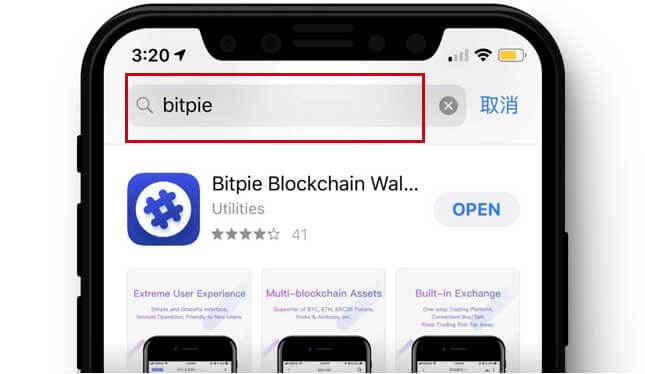
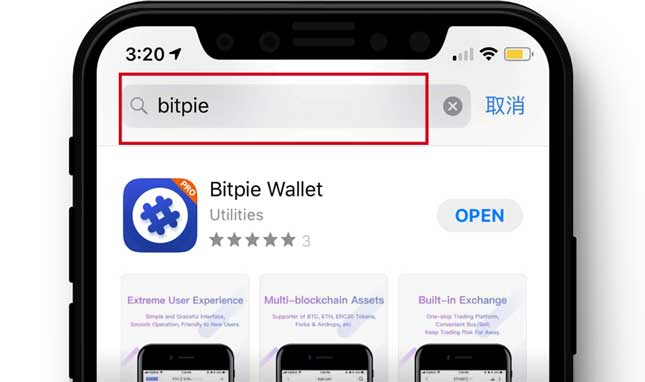
modify ios download pic 4

diff --git a/_includes/down_content.html b/_includes/down_content.html
@@ -16,24 +16,25 @@
     </p>
   </div>
   <div class="ios-account">
-    <p>海外ID 1：<span>c3s477b@icloud.com</span></p>
-      <p>密码：<span>Ee112211</span></p>
-      <p>海外ID 2：<span>dzl2mcx@icloud.com</span></p>
-      <p>密码：<span>Ee112211</span></p>
-      <p style="color: #999999">该账户仅供测试使用，建议用户自行申请海外苹果ID。</p>
-  </div>
-  <div class="ios-describe">
-    <h2>苹果手机使用 海外 ID 下载比特派教程</h2>
-    <p>1、打开 <span>App Store</span>,点击右上角<span>个人中心</span></p>
-    <img class="ios-img" src="../img/bitpieios1.jpg" />
-    <p>2、点击个人中心下方<span>退出登录</span></p>
-    <img class="ios-img" src="../img/bitpieios2.jpg" />
-    <p>3、登录 <span>海外 ID</span>，例：<br/>
-      <strong>Apple ID: c3s477b@icloud.com</strong><br/>
-      <strong>密码：Ee112211</strong>
-     </p>
-    <img class="ios-img" src="../img/bitpieios3.jpg" />
-    <p>4、搜索<span>"bitpie"</span>并下载</p>
-    <img class="ios-img" src="../img/bitpieios4.jpg" />
-  </div>
+    <h6>
+      海外苹果 ID 注册教程<a
+        class="custom-link"
+        href="https://m.weibo.cn/6404560407/4353761147226656"
+        target="_blank"
+      >
+        点击
+      </a>
+        </h6>
+    </div>
+    <div class="ios-describe">
+        <h2>苹果手机使用 海外 ID 下载比特派教程</h2>
+        <p>1、打开 <span>App Store</span>,点击右上角<span>个人中心</span></p>
+        <img class="ios-img" src="../img/bitpieios1.jpg" />
+        <p>2、点击个人中心下方<span>退出登录</span></p>
+        <img class="ios-img" src="../img/bitpieios2.jpg" />
+        <p>3、登录 <span>海外 ID</span></p>
+        <img class="ios-img" src="../img/bitpieios3.jpg" />
+        <p>4、搜索 “bitpie” 并下载，请注意带有<span>“PRO”角标</span>的最新版本</p>
+        <img class="ios-img" src="../img/bitpieios4.jpg" />
+    </div>
 </div>

diff --git a/css/custom.css b/css/custom.css
@@ -239,19 +239,24 @@
     box-shadow: 2px 2px 10px 0 rgba(52, 16, 150, 0.10);
     border-radius: 10px;
     width: 300px;
-    height: 182px;
+    height: 60px;
     text-align: center;
     margin: 0 auto;
-    padding: 27px 0;
 }
 
-.ios-account p {
+.ios-account h6 {
     font-family: PingFangSC-Regular;
     font-size: 12px;
     color: #333333;
     letter-spacing: 0;
     text-align: center;
-    line-height: 16px;
+    line-height: 60px;
+}
+
+.ios-account .custom-link {
+    cursor: pointer;
+    color: #D0021B !important;
+    text-decoration: none;
 }
 
 .ios-describe p {
